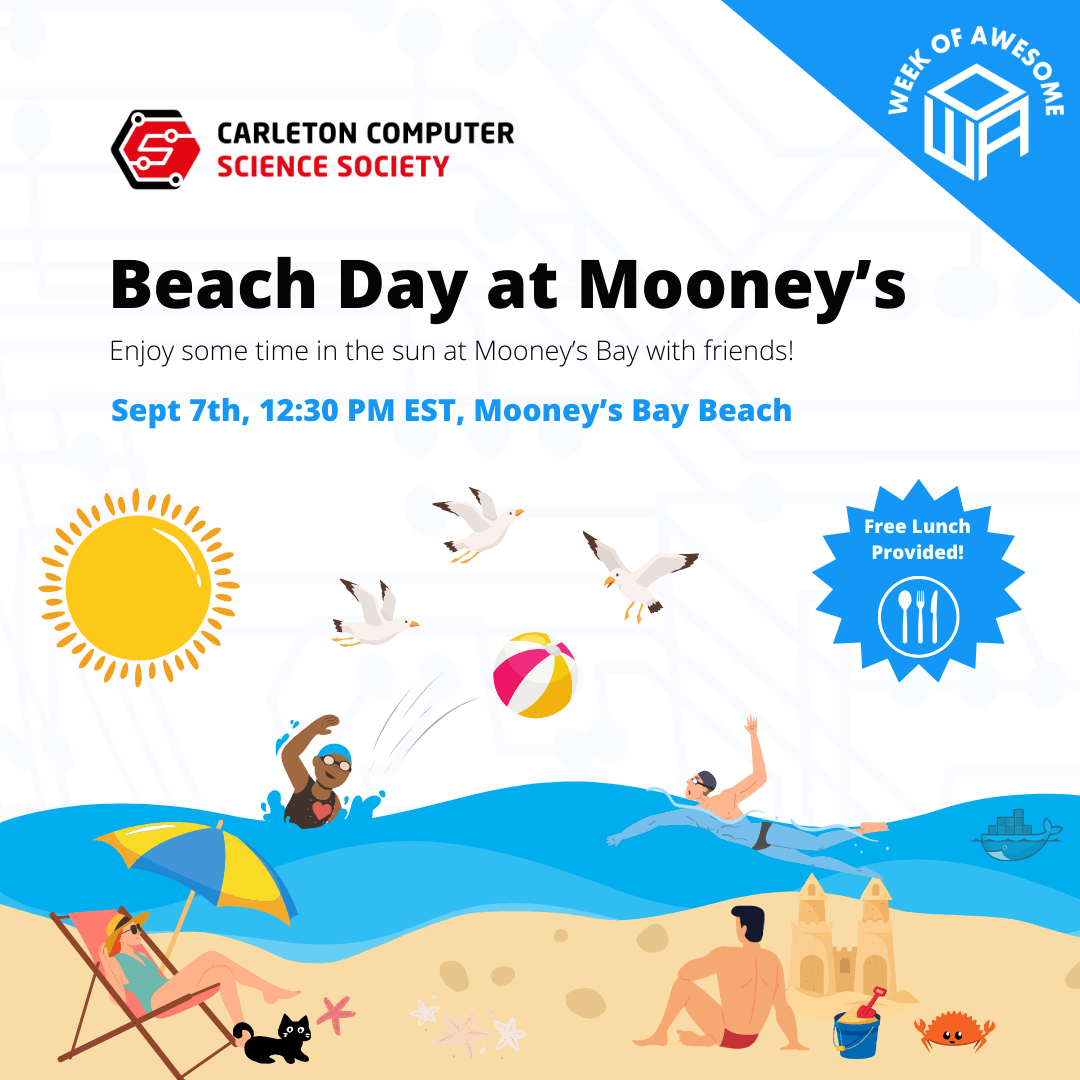
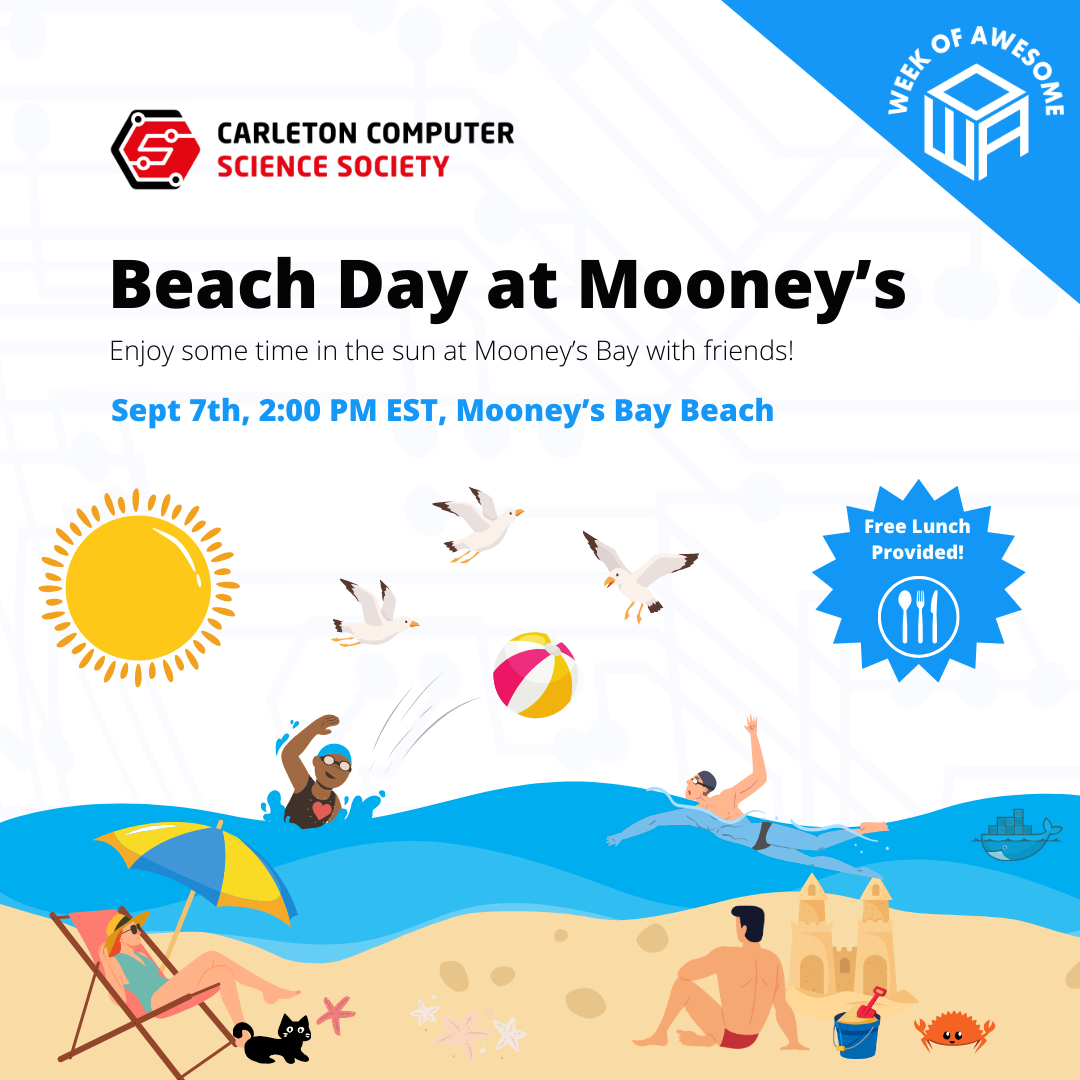
update beach day info

Changed region(s): [[0.2444, 0.3667, 0.7333, 0.3972]]

diff --git a/content/events/2025-2026/2025-09-07-woa-beach-day.md b/content/events/2025-2026/2025-09-07-woa-beach-day.md
@@ -8,7 +8,7 @@ poster: "/images/event_posters/2025-2026/woa-beach-day.png"
 poster_cover: "contain"
 poster_position: "center"
 short_description: "Enjoy some time in the sun at Mooney's Bay beach with new friends!"
-start_time: "12:30 PM EST"
+start_time: "2:00 PM EST"
 location: "Mooney's Bay"
 location_link: "https://maps.app.goo.gl/b1A49je2SkvnRW4R8"
 background: "images/orientation2018-min.jpeg"
@@ -16,20 +16,21 @@ publishdate: 2025-08-25
 tags:
 - weekofawesome2025
 ---
+**Note:** Due to expected rain in the morning, the start time has been pushed to **2:00PM** (originally 12:30). The forecast predicts a very light amount of rain (less than 1mm), so we don't expect any major issues. 
 
 ## ✅ RSVP
 We will be catering this event with Subway! **If you are planning on attending, please RSVP and mention any dietary restrictions** you may have, so that we can estimate how much food we need -> **[RSVP Form Link](https://forms.gle/eGPYMs39vj7GBwFe7)**
 
 ## 🗓 Schedule
 Here's our plan for the day: 
-- **12:30 PM** – Kick things off with snacks and some time to settle in 🍪
-- **1:00 PM** - Volleyball on the sand 🏐
-- **1:30 PM** - Lunch is served 🍽
-- **2:30 PM** - Sandcastle showdown 🏖
-- **3:30 PM** - Frisbee time 🥏
+- **2:00 PM** – Kick things off with snacks and some time to settle in 🍪
+- **2:30 PM** - Lunch is served 🍽
+- **3:00 PM** - Volleyball on the sand 🏐
+- **3:30 PM** - Sandcastle showdown 🏖
+- **4:30 PM** - Frisbee time 🥏
 
 ## 🚃 Commute 
-You can easily **reach Mooney's Bay beach using the O-Train Line 2**. If you would like to **commute as a group, meet us in the CCSS Lounge (Herzberg 4135) by 12:00 PM** to take the train together!
+You can easily **reach Mooney's Bay beach using the O-Train Line 2**. If you would like to **commute as a group, meet us in the CCSS Lounge (Herzberg 4135) by 1:30 PM** to take the train together!
 
 ## 📍 Meeting Location
 If you would like to meet us at the beach a little later, here's the **[link to the meeting spot](https://maps.app.goo.gl/b1A49je2SkvnRW4R8)**. Look out for a CCSS banner to find the group! 
